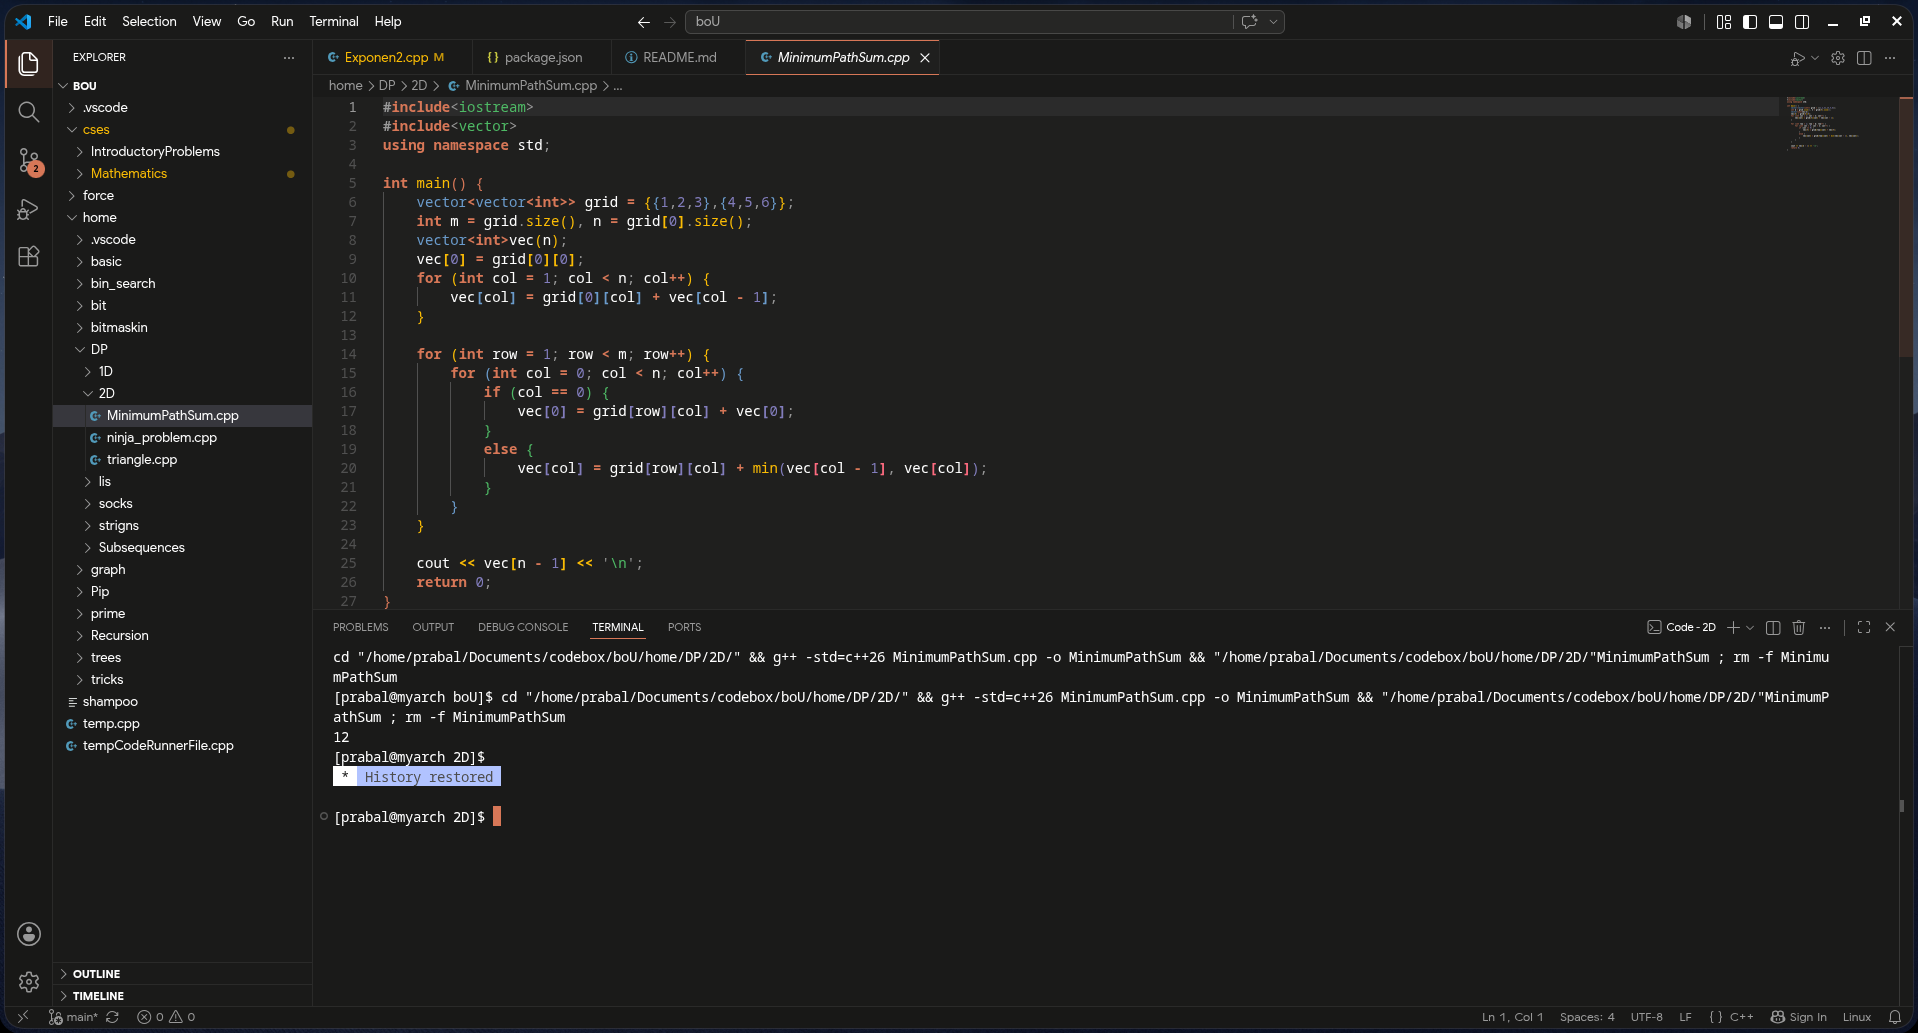
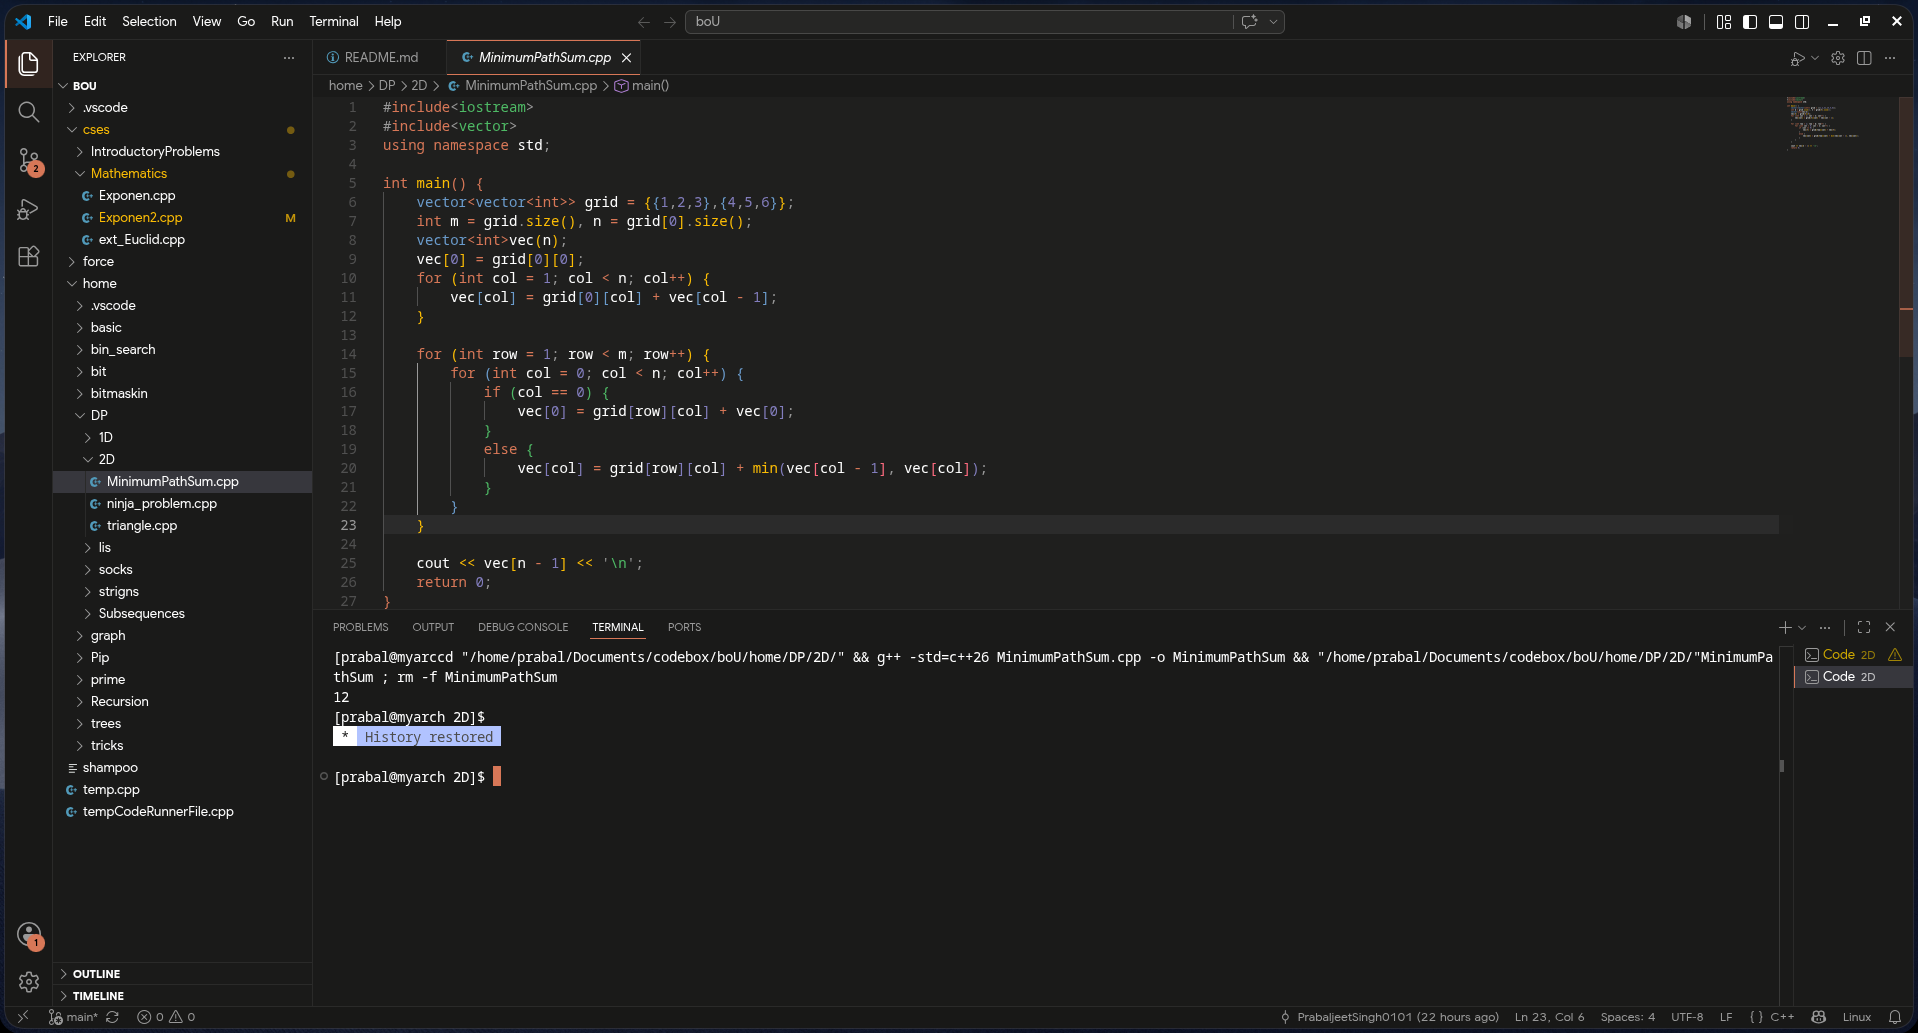
Readme change, package.json search filters, descriptions etc

diff --git a/README.md b/README.md
@@ -1,13 +1,17 @@
-# Claude Code Dark Theme
+# Claude Code Dark
 
-> *The Claude feeling, now in your editor.*
+A dark theme that feels quiet, focused, and calm.
 
-A dark theme extracted directly from the official **Claude Code CLI** binaries — the real palette, mapped 1:1 to VS Code.
+![Claude Code Dark Theme](https://github.com/PrabaljeetSingh0101/Claude-code-dark/raw/main/image.png)
 
-## 💡 About
+## About
 
-Every color — surfaces, accents, errors, warnings, git states — was pulled from Anthropic's own terminal palette. Same calm, same focus, just in VS Code now.
+Calm tones, clean contrast. A theme that stays out of your way and lets you focus.
 
-## 📸 Previews
+Built from the Claude Code CLI palette — covers surfaces, syntax, accents, git states, and terminal.
 
-![alt text](image.png)
+---
+
+**Enjoy the calm.** 🤍
+
+---